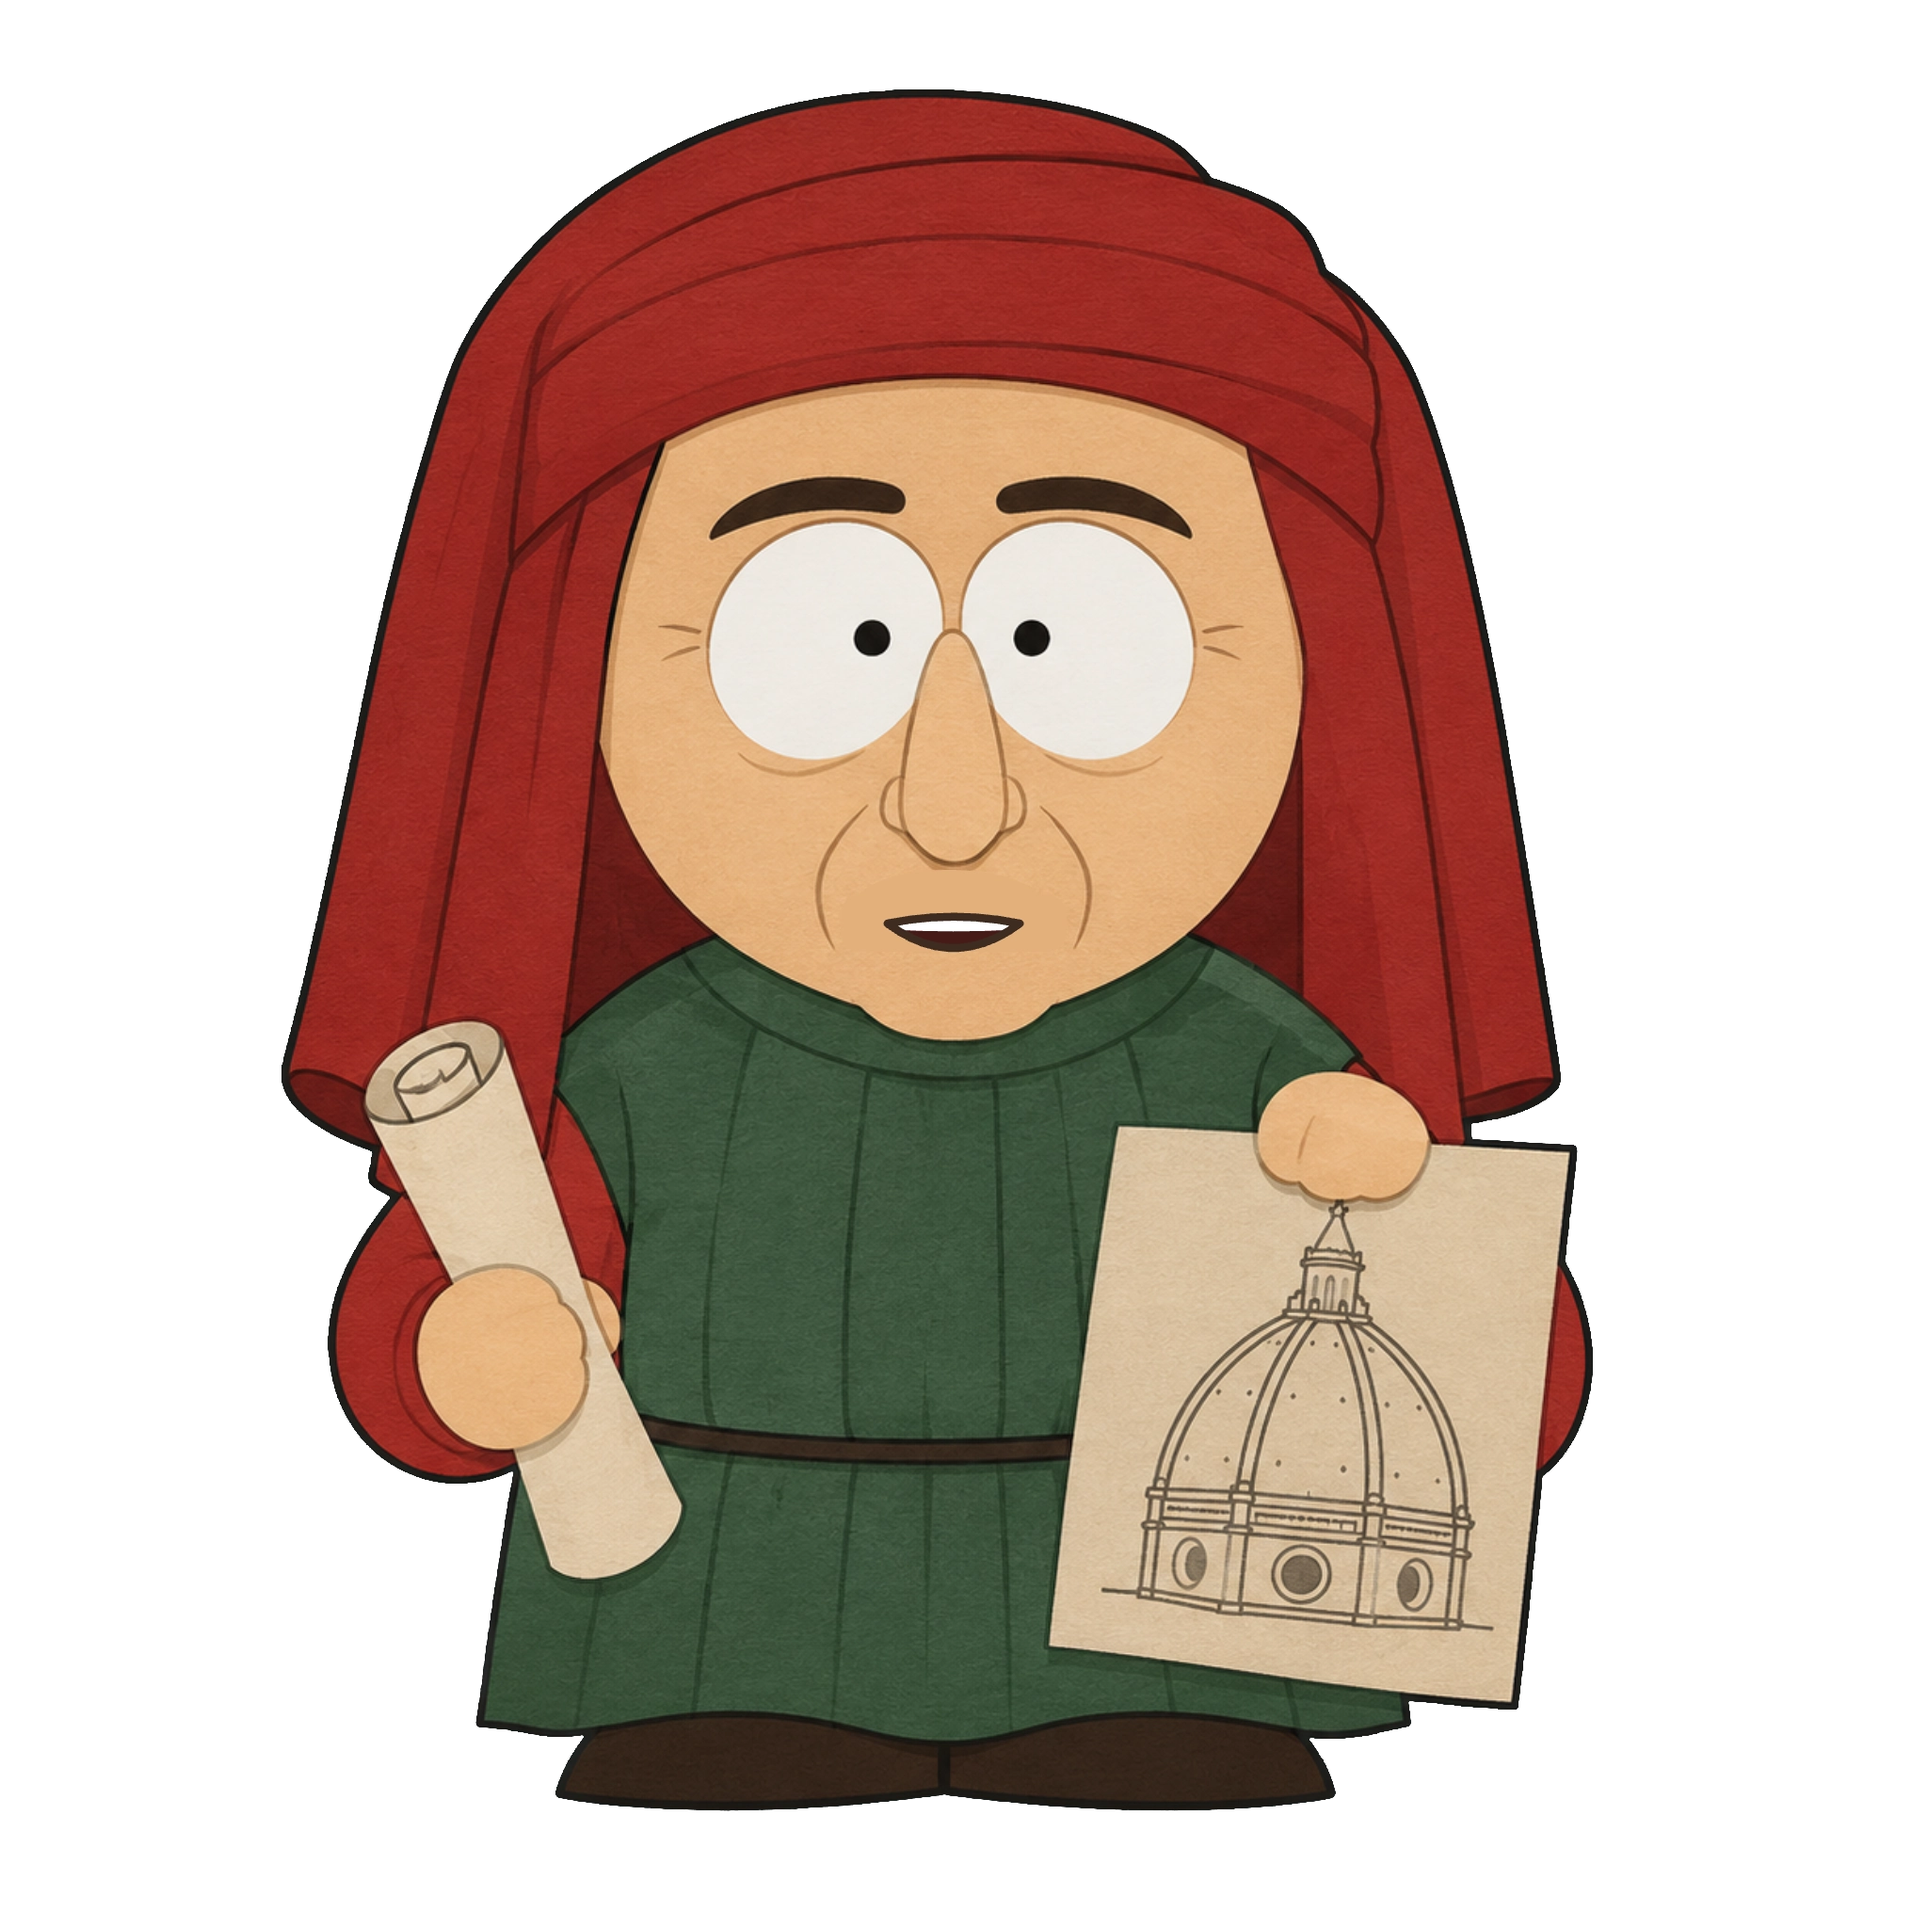
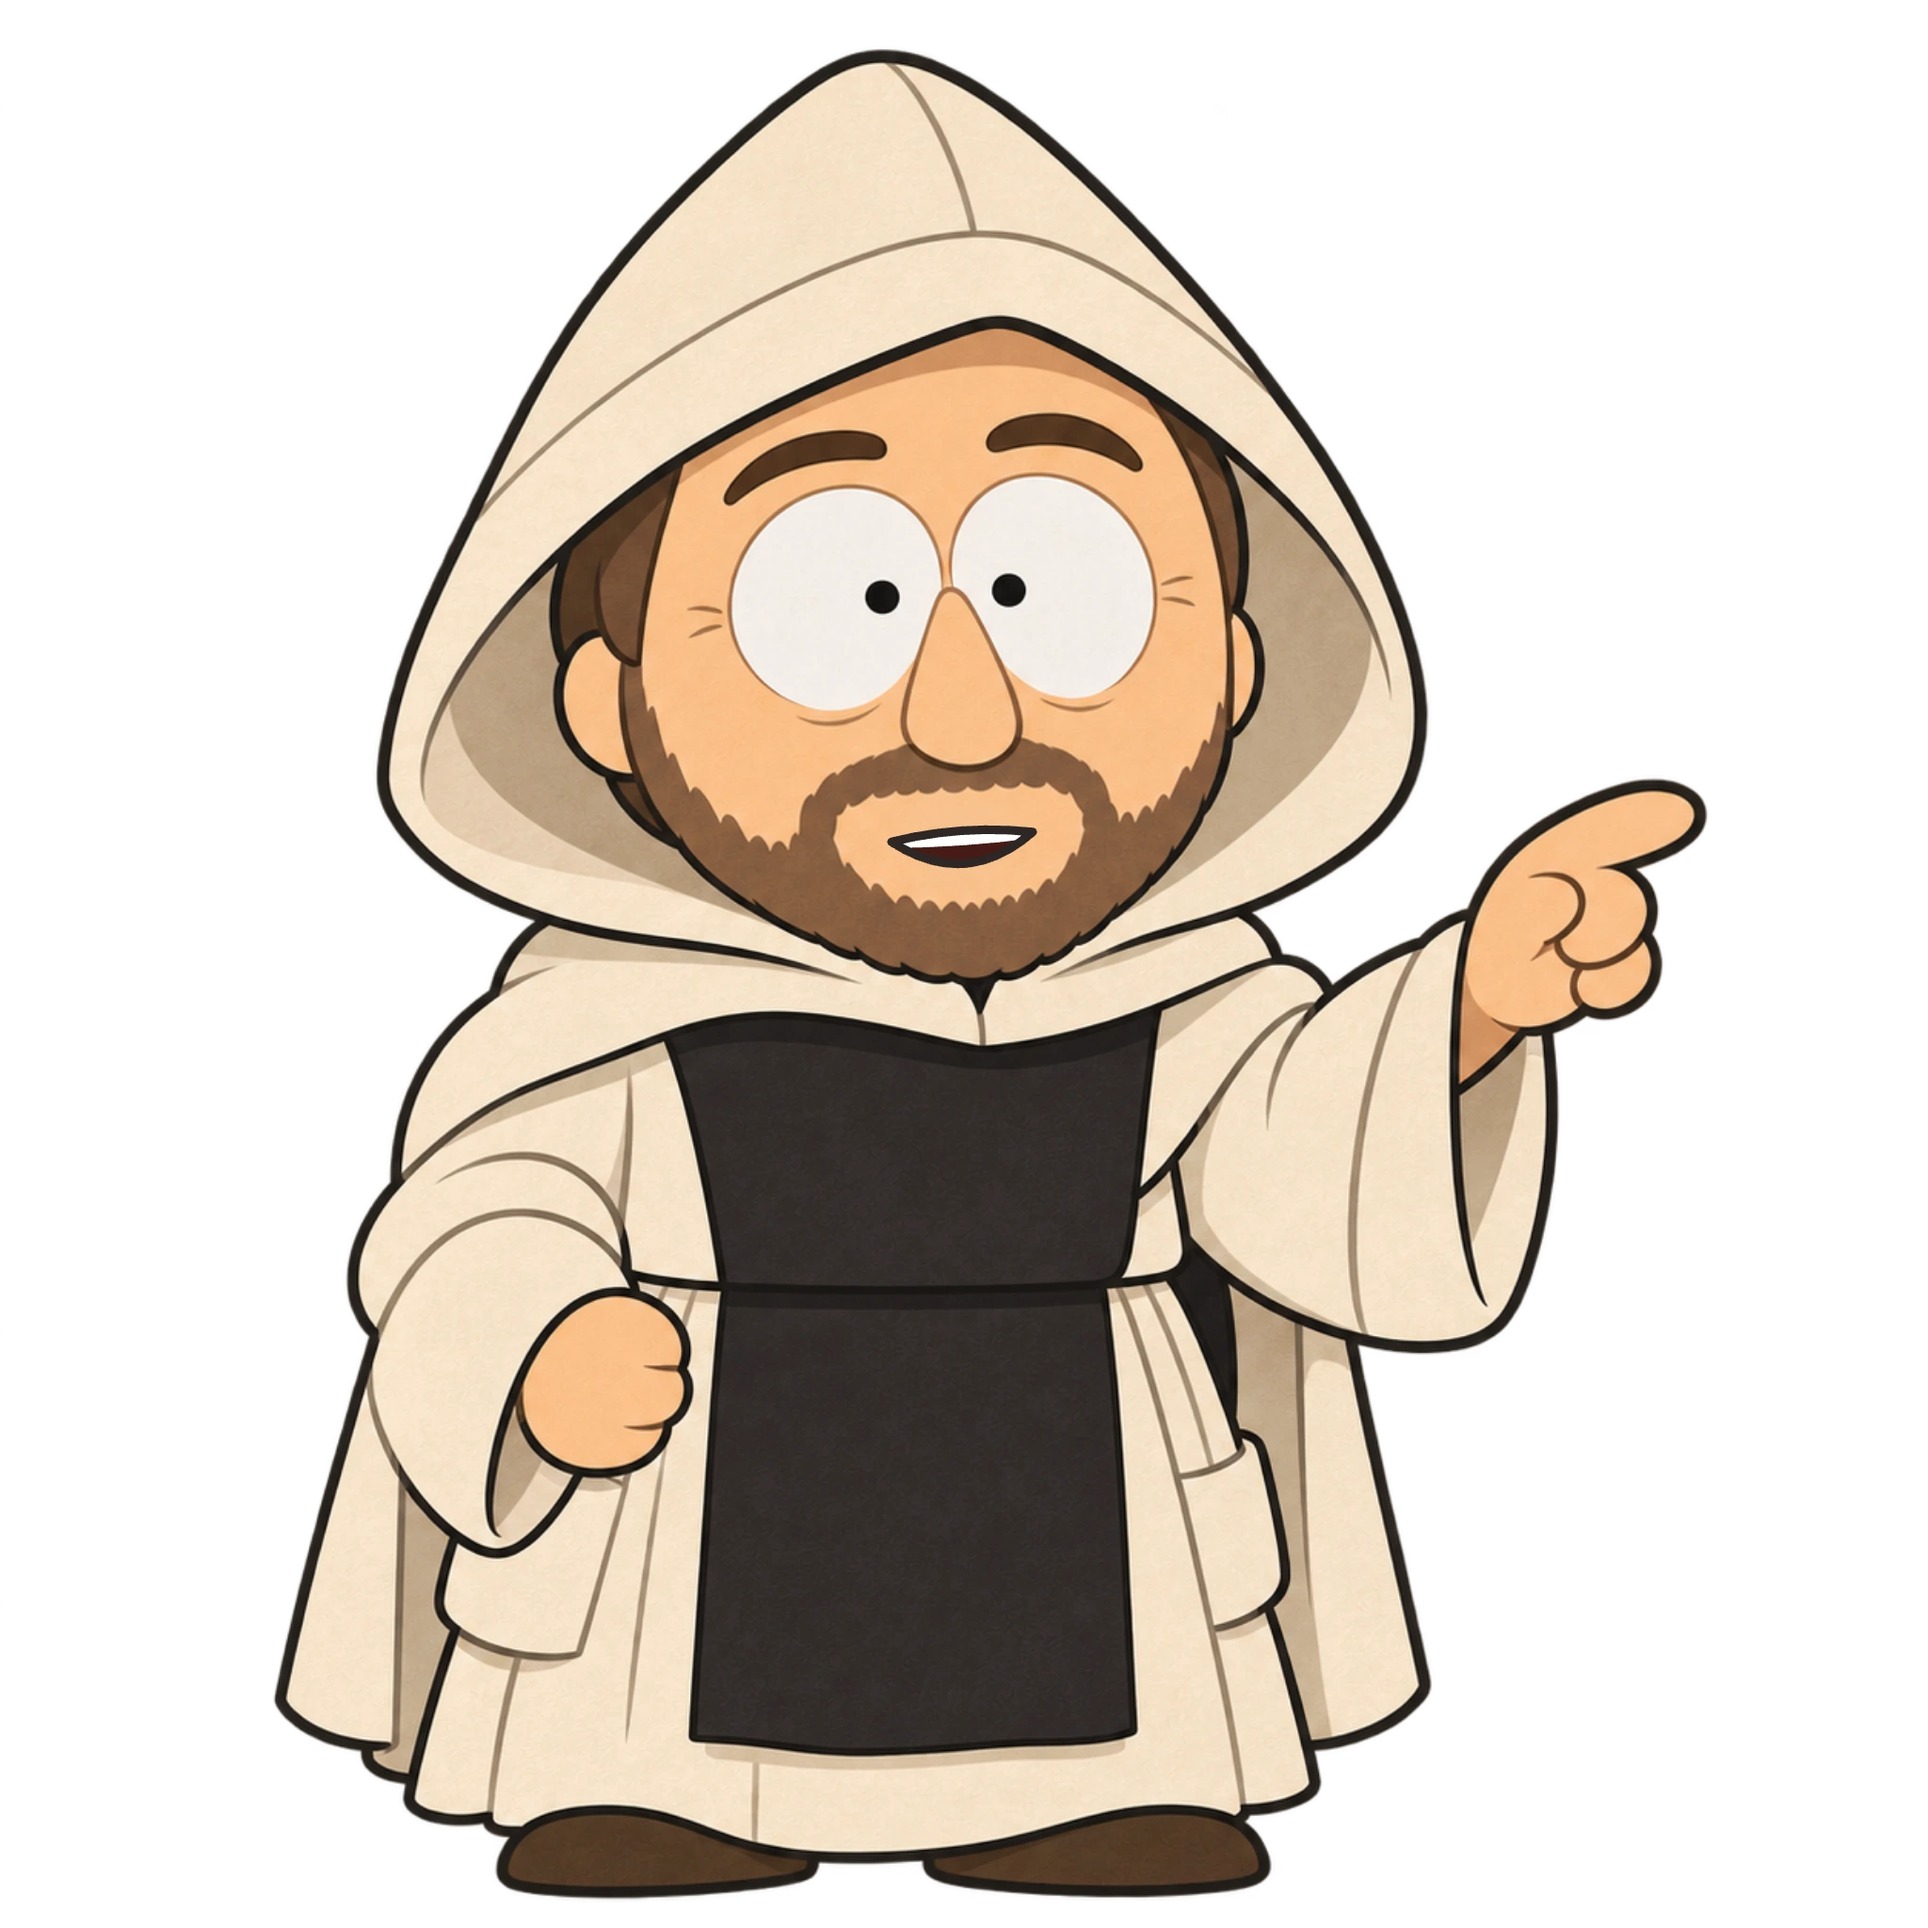
Calci: nuova mascotte del monaco, testo landing e player nella palette del Comune
- Maschere di bocca e posa statica dal rig del monaco (Rhubarb, stessi cue)
- Landing: testo di presentazione di Padre Gherardo (IT)
- Foto delle tappe sospese: tutte le tappe usano il riquadro neutro
- Player e mini-player nella palette Calci (blu e oro), non nel verde del brand

diff --git a/index.html b/index.html
@@ -127,7 +127,7 @@
                   <img
                     id="hero-mascot"
                     class="intro-portrait"
-                    src="assets/mascotte-mouth/mascotte_B.webp?v=20260921-mascot-hd"
+                    src="assets/mascotte-mouth/mascotte_B.webp?v=20261028-monaco-calci"
                     alt=""
                   />
                 </div>
@@ -139,9 +139,7 @@
               <div class="intro-quote-block" id="intro-quote-block">
                 <p class="intro intro-lead intro-quote-title" id="intro-lead-text">Lorem ipsum</p>
                 <p class="intro intro-quote" id="intro-text">
-                  Lorem ipsum dolor sit amet, consectetur adipiscing elit.
-                  sed do eiusmod tempor incididunt ut labore et dolore magna aliqua.
-                  Ut enim ad minim veniam, quis nostrud exercitation ullamco laboris.
+                  Buondì, sono Padre Gherardo. Dalla Certosa alle vie di Calci, ti accompagnerò tra pievi, stemmi e racconti, tappa dopo tappa.
                 </p>
               </div>
             </div>
@@ -181,7 +179,7 @@
                     <img
                       id="map-explore-mascot-image"
                       class="map-explore-mascot-image"
-                      src="assets/mascotte-mouth/mascotte_B.webp?v=20260921-mascot-hd"
+                      src="assets/mascotte-mouth/mascotte_B.webp?v=20261028-monaco-calci"
                       alt=""
                     />
                   </div>
@@ -279,7 +277,7 @@
         <img
           id="mini-player-artwork"
           class="mini-player-artwork"
-          src="mascotte_calci.webp?v=20260921-mascot-hd"
+          src="mascotte_calci.webp?v=20261028-monaco-calci"
           alt="Artwork della traccia"
         />
         <span class="mini-player-text">
@@ -405,7 +403,7 @@
             <img
               id="detail-artwork-image"
               class="detail-artwork-image player-artwork-layer is-photo-layer"
-              src="mascotte_calci.webp?v=20260921-mascot-hd"
+              src="mascotte_calci.webp?v=20261028-monaco-calci"
               alt="Immagine della traccia"
             />
             <div
@@ -416,7 +414,7 @@
                 <img
                   id="detail-mascot-image"
                   class="detail-mascot-image"
-                  src="assets/mascotte-mouth/mascotte_B.webp?v=20260921-mascot-hd"
+                  src="assets/mascotte-mouth/mascotte_B.webp?v=20261028-monaco-calci"
                   alt="Padre Gherardo, guida dell’itinerario"
                 />
               </div>

diff --git a/app.js b/app.js
@@ -634,7 +634,7 @@ let mapSelectionTooltip = null;
 let mapSelectionTooltipFadeTimer = null;
 let mapSelectionTooltipCloseTimer = null;
 
-const MASCOT_ASSET_VERSION = "20261018-calci";
+const MASCOT_ASSET_VERSION = "20261028-monaco-calci";
 const MASCOT_FRAME_BASE_PATH = "assets/mascotte-mouth";
 const MASCOT_REST_FRAME = `${MASCOT_FRAME_BASE_PATH}/mascotte_B.webp?v=${MASCOT_ASSET_VERSION}`;
 const MASCOT_FRAME_PATHS = {
@@ -672,12 +672,9 @@ const WHITE_ARTWORK =
   encodeURIComponent(
     '<svg xmlns="http://www.w3.org/2000/svg" viewBox="0 0 1200 1200"><rect width="1200" height="1200" fill="#f7f5ef"/><rect x="24" y="24" width="1152" height="1152" rx="48" fill="none" stroke="#dce4e7" stroke-width="18"/></svg>'
   );
-const STOP_ARTWORKS = {
-  1: "assets/stops/tappa-01-certosa.jpg",
-  4: "assets/stops/tappa-04-pieve.png",
-  5: "assets/stops/tappa-05-palazzo-comunale.png",
-  6: "assets/stops/tappa-06-gioco-del-mulino.png",
-};
+// Foto delle tappe sospese: tutte le tappe usano il riquadro neutro.
+// Per riattivarle, rimettere i percorsi in questa mappa.
+const STOP_ARTWORKS = {};
 
 const stopTitles = {
   "1": {
@@ -708,7 +705,7 @@ const uiStrings = {
     prototype: "",
     introLead: "Lorem ipsum",
     intro:
-      "Lorem ipsum dolor sit amet, consectetur adipiscing elit. Sed do eiusmod tempor incididunt ut labore et dolore magna aliqua.",
+      "Buondì, sono Padre Gherardo. Dalla Certosa alle vie di Calci, ti accompagnerò tra pievi, stemmi e racconti, tappa dopo tappa.",
     instructionsTitle: "Istruzioni",
     instructionsText:
       "La mappa mostra l’intero percorso, con le tappe da 1 a 7. Puoi selezionare una tappa dalla lista oppure cliccare direttamente sulla mappa: il sito evidenzierà il punto scelto, centrerà la visuale e aprirà i contenuti dedicati.",

diff --git a/style.css b/style.css
@@ -3602,7 +3602,7 @@ body.is-transition-audio .TPPlayerSheet .player-meta h2 .player-title-text {
   padding: 12px 14px;
   border: 1px solid rgba(255, 255, 255, 0.22);
   border-radius: var(--tp-radius-lg);
-  background: linear-gradient(145deg, #174e47, #0b3531);
+  background: linear-gradient(145deg, var(--tp-player-surface), var(--tp-player-surface-deep));
   box-shadow: 0 18px 42px rgba(8, 37, 32, 0.3);
   transition:
     transform var(--tp-motion-expressive) var(--tp-ease-emphasized),
@@ -3686,7 +3686,7 @@ body.is-transition-audio .TPPlayerSheet .player-meta h2 .player-title-text {
   border-radius: var(--tp-radius-xl) var(--tp-radius-xl) 0 0;
   background:
     radial-gradient(circle at 76% 0%, rgba(232, 195, 109, 0.16), transparent 31%),
-    linear-gradient(160deg, #174e47 0%, #092f2c 70%, #06221f 100%);
+    linear-gradient(160deg, var(--tp-player-surface) 0%, var(--tp-player-surface-sheet-deep) 70%, var(--tp-player-surface-sheet-darkest) 100%);
   box-shadow: 0 -24px 72px rgba(0, 0, 0, 0.28);
   transition:
     transform var(--tp-motion-expressive) var(--tp-ease-emphasized),
@@ -8874,7 +8874,7 @@ body.is-map-player-panel .map-live-caption[hidden] {
     padding: 8px 12px;
     border: 1px solid rgba(255, 255, 255, 0.18);
     border-radius: 16px;
-    background: linear-gradient(145deg, #174e47, #0b3531);
+    background: linear-gradient(145deg, var(--tp-player-surface), var(--tp-player-surface-deep));
     box-shadow: 0 8px 22px rgba(3, 25, 23, 0.2);
     font-size: clamp(0.8rem, 3.7vw, 0.94rem);
     line-height: 1.28;

diff --git a/design-system.css b/design-system.css
@@ -3,6 +3,11 @@
   --tp-font-ui: "Roboto Flex", "Roboto", system-ui, -apple-system, BlinkMacSystemFont, "Segoe UI", sans-serif;
   --tp-font-editorial: "Georgia", "Times New Roman", serif;
 
+  --tp-player-surface: #174e47;
+  --tp-player-surface-deep: #0b3531;
+  --tp-player-surface-sheet-deep: #092f2c;
+  --tp-player-surface-sheet-darkest: #06221f;
+
   --tp-color-primary: #245c52;
   --tp-color-on-primary: #ffffff;
   --tp-color-primary-container: #d8eee6;

diff --git a/theme-calci.css b/theme-calci.css
@@ -1,6 +1,11 @@
 :root,
 :root[data-tp-theme="calci"],
 .tp-theme-calci {
+  --tp-player-surface: #0d4f7b;
+  --tp-player-surface-deep: #0a3d61;
+  --tp-player-surface-sheet-deep: #082f4d;
+  --tp-player-surface-sheet-darkest: #062440;
+
   --tp-color-primary: #0d4f7b;
   --tp-color-on-primary: #ffffff;
   --tp-color-primary-container: #dcecf5;
